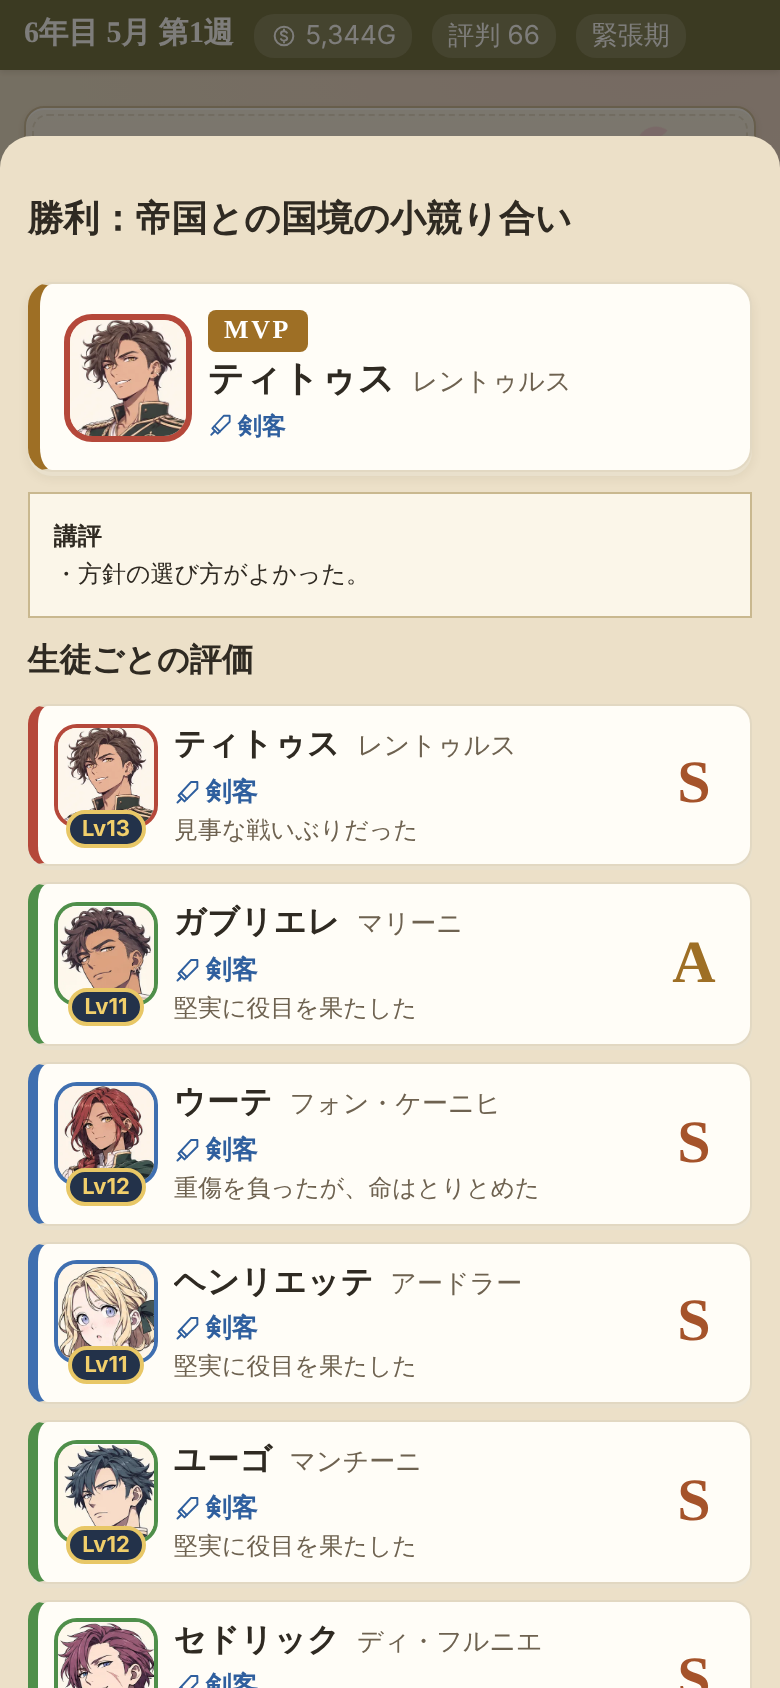
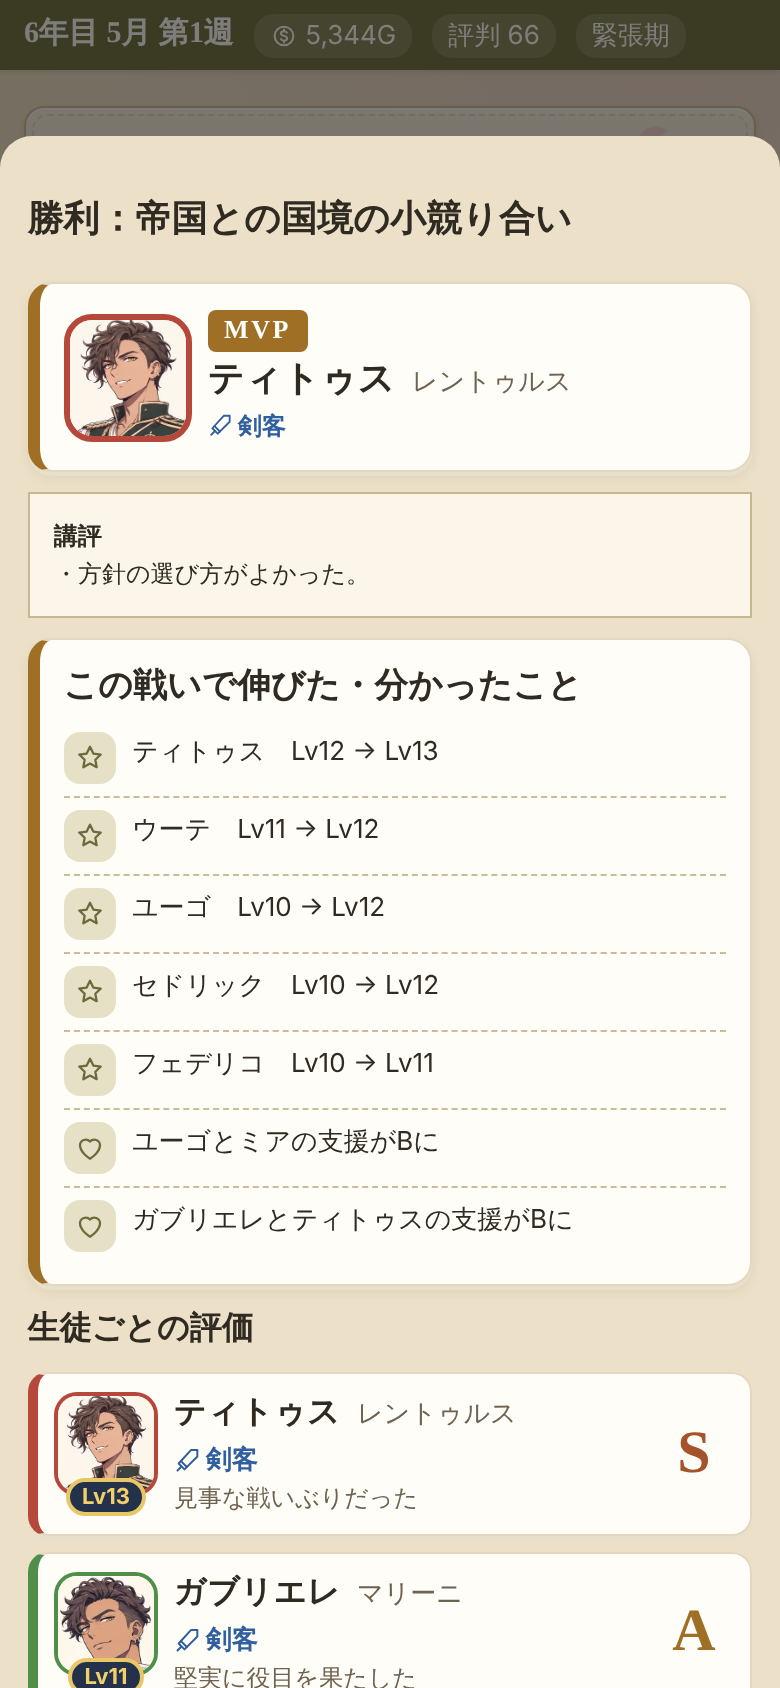
結果の画面に「この戦いで伸びた・分かったこと」、報告書と感想メモの更新、撮影し直し
Claude-Session: https://claude.ai/code/session_01BQhBD7stK2VyPxxU8Chf4d

Changed region(s): [[0.0308, 0.3697, 0.9846, 1.0], [0.8615, 0.5545, 0.9231, 0.5853], [0.5231, 0.5545, 0.5538, 0.5853]]

diff --git a/src/core/flow.ts b/src/core/flow.ts
@@ -3,7 +3,7 @@ import { B } from '../data/balance';
 import { BACKGROUNDS, COUNTRIES, COUNTRY_SHORT, COUNTRY_NAMES, SKILL_NAMES } from '../data/people';
 import { WEAPONS } from '../data/weapons';
 import type { CountryId, SkillId } from './types';
-import type { GameState, Quest, Student, GrowthEntry } from './state';
+import type { GameState, Quest, Student, GrowthEntry, BattleFinding } from './state';
 import { Rng } from './rng';
 import { enrolled, addMoney, addRep, chronicle, notify, enrollCohort, capacity, mail, available } from './game';
 import { resolveWeek, startMonthStudents, changeMotivation, revealTalent, addSkill } from './week';
@@ -19,7 +19,7 @@ import { simulateAlumni, aidMoney, titleOf } from './alumni';
 import { prepareCareers, graduate, type CareerPlan } from './career';
 import { generateStudent } from './student';
 import { rollTeacherCandidates, monthlySalaries, yearlyRaises } from './teachers';
-import { absMonth, MONTH_NAMES } from './util';
+import { absMonth, MONTH_NAMES, rankOf } from './util';
 import { retireCheck, viceOf, cleanVice } from './instructor';
 import { checkEndings, peaceEraYear } from './ending';
 import { TRAITS } from '../data/people';
@@ -202,10 +202,27 @@ export function finishBattle(s: GameState): void {
     reveal: (st, v) => revealTalent(s, st, v),
     motivation: (st, d) => changeMotivation(st, d),
   });
-  s.pending.splice(s.pending.findIndex((p) => p.type === 'talk') >= 0 ? s.pending.findIndex((p) => p.type === 'talk') : s.pending.length, 0, { type: 'battleResult', lines, grades, win, growth, mvp: auto.mvp ?? undefined, review: auto.review, title: b.title });
+  const firstTalk = s.pending.findIndex((p) => p.type === 'talk');
+  const findings = battleFindings(s, growth, lines, s.pending.slice(firstTalk >= 0 ? firstTalk : s.pending.length));
+  s.pending.splice(firstTalk >= 0 ? firstTalk : s.pending.length, 0, { type: 'battleResult', lines, grades, win, growth, mvp: auto.mvp ?? undefined, review: auto.review, title: b.title, findings });
   s.battle = null;
   if (q?.kind === 'schoolDefense' && win) checkEndings(s, r, 'month');
   endMonth(s);
+}
+
+/** 戦闘のあとの「この戦いで伸びた・分かったこと」（レベル・技能ランク・魔法・才能・特徴・支援） */
+export function battleFindings(s: GameState, growth: GrowthEntry[], lines: string[], talks: GameState['pending']): BattleFinding[] {
+  const out: BattleFinding[] = [];
+  for (const g of growth) {
+    const st = s.students[g.id];
+    if (!st) continue;
+    if (g.lv1 > g.lv0) out.push({ id: st.id, icon: 'star', text: `${st.given}　Lv${g.lv0} → Lv${g.lv1}` });
+    for (const k of g.skills) { const r0 = rankOf(k.p0), r1 = rankOf(k.p1); if (r0 !== r1) out.push({ id: st.id, icon: 'lesson', text: `${st.given}　${SKILL_NAMES[k.k]} ${r0} → ${r1}` }); }
+    for (const sp of g.spells) out.push({ id: st.id, icon: 'tome', text: `${st.given}　${WEAPONS[sp]?.name ?? sp}を覚えた` });
+  }
+  for (const l of lines) if (l.includes('才能') || l.includes('特徴')) { const st = Object.values(s.students).find((x) => x.status === 'enrolled' && l.startsWith(`戦場で${x.given}`) || l.startsWith(`${x.given}の特徴`)); out.push({ id: st?.id, icon: 'lantern', text: l }); }
+  for (const p of talks) if (p.type === 'talk') { const a = s.students[p.talk.a], c = s.students[p.talk.b]; if (a && c) out.push({ id: a.id, icon: 'heart', text: `${a.given}と${c.given}の支援が${p.talk.rank}に` }); }
+  return out;
 }
 
 export function killStudent(s: GameState, st: Student, note: string): void {

diff --git a/src/core/state.ts b/src/core/state.ts
@@ -220,7 +220,7 @@ export type EndingKind = 'peace' | 'unify' | 'ceasefire' | 'neutral';
 export type Pending =
   | { type: 'weekSummary'; lines: string[]; talks: TalkLog[]; growth?: GrowthEntry[] }
   | { type: 'questBoard' }
-  | { type: 'battleResult'; lines: string[]; grades: { id: string; grade: string; note: string }[]; win: boolean; growth?: GrowthEntry[]; mvp?: string; review?: string[]; title?: string }
+  | { type: 'battleResult'; lines: string[]; grades: { id: string; grade: string; note: string }[]; win: boolean; growth?: GrowthEntry[]; mvp?: string; review?: string[]; title?: string; findings?: BattleFinding[] }
   | { type: 'event'; title: string; lines: string[] }
   | { type: 'entrance' }
   | { type: 'career' }
@@ -232,6 +232,9 @@ export type Pending =
   | { type: 'successor' }
   | { type: 'scene'; title: string; lines: SceneLine[]; after?: 'ending' }
   | { type: 'ending'; kind: EndingKind; country?: CountryId };
+
+/** 戦闘で伸びた・分かったこと（結果の画面にまとめて出す） */
+export interface BattleFinding { id?: string; icon: string; text: string }
 
 /** 成長の記録（ゲージの演出用）。前と後の値だけを持つ */
 export interface GrowthEntry {

diff --git a/src/ui/Pending.tsx b/src/ui/Pending.tsx
@@ -106,6 +106,12 @@ function BattleResult({ s, p, onDone }: { s: GameState; p: Extract<GameState['pe
   return (
     <Sheet title={`${p.win ? '勝利' : '敗北'}${p.title ? `：${p.title}` : ''}`}>
       <AutoResultHead s={s} mvp={p.mvp} review={p.review} />
+      {p.findings && p.findings.length > 0 && (
+        <div class="pcard" style={{ ['--band' as string]: 'var(--gold)' }}>
+          <h3 style={{ marginTop: 0 }}>この戦いで伸びた・分かったこと</h3>
+          <ul class="list sumlist">{p.findings.map((f) => <li><span class="todoicon"><Icon name={f.icon} size={16} /></span><span>{f.text}</span></li>)}</ul>
+        </div>
+      )}
       <h3>生徒ごとの評価</h3>
       {p.grades.map((g) => { const st = s.students[g.id]; if (!st) return null; return <MiniCard st={st} onClick={() => undefined} sub={g.note} right={<span class={`grade g${g.grade}`}>{g.grade}</span>} />; })}
       <div class="pcard"><ul class="list sumlist">{p.lines.map((l) => <li><span class="todoicon"><Icon name={l.startsWith('勝利') ? 'flag' : l.startsWith('敗北') ? 'skull' : l.includes('報酬') ? 'coin' : lineIcon(l)} size={16} /></span><span>{l}</span></li>)}</ul></div>

diff --git a/tests/night5.test.ts b/tests/night5.test.ts
@@ -74,6 +74,8 @@ describe('自動の戦闘', () => {
       finishBattle(s);
       const p = s.pending.find((x) => x.type === 'battleResult');
       expect(p && p.type === 'battleResult' && p.mvp).toBeTruthy();
+      // この戦いで伸びた・分かったこと：レベルが上がった子は必ず載る
+      if (p && p.type === 'battleResult') for (const g of p.growth ?? []) if (g.lv1 > g.lv0) expect(p.findings?.some((f) => f.id === g.id && f.text.includes(`Lv${g.lv1}`))).toBe(true);
       expect(s.battle).toBeNull();
     }
   });

diff --git a/docs/reports/night5.md b/docs/reports/night5.md
@@ -8,7 +8,7 @@
 |---|---|---|
 | ① 出撃前の画面 | **完成** | 依頼を選ぶと「出撃前」の画面になります。**出撃メンバー**（顔のカード。タップで出し入れ、**「おすすめの編成」ボタン**＝レベル・やる気・疲れ・敵との相性・回復役を考えて選びます）→ **作戦の方針**（依頼の勝利条件ごとに3〜4つ。慎重に／攻めろ／仲間を守れ／速攻で敵将を／救出・護衛を優先／守りを固めろ。合うものには「この依頼に合う」の札）→ **役割**（前衛・後衛・遊撃・回復。兵種から自動で決まり、タップで変えられます。◎向いている・○ふつう・△向かない）。武器と道具は、名前の横の「▾」で変えられます。**敵の情報**：敵将の名前・顔・兵種・レベル・性格（傲慢・老練・卑怯・誇り高い・若い野心家・冷徹）、敵の数と武器の内訳（「剣×2・槍×1…」）、三すくみの見どころ（「斧兵が多い。こちらの武器が有利（斧は剣に弱い）」など）、天候と地形の注意、敵に教え子がいるかどうか。**勝ち目の目安**は「優勢」「五分」「苦しい」の3つだけ（裏で3回試しに戦わせて決めます。数字は見せません） |
 | ② 自動の戦闘の計算 | **完成** | **今の戦闘の計算（命中・ダメージ・追撃・必殺・スキル・三すくみ・支援・地形・天候）をそのまま裏で手早く回す形**にしました。マスの上で敵も味方も今までどおりに動いており、その記録から場面と出来事を拾います。なので、能力・兵種・技能ランク・覚えた魔法・支援がそのまま効きます。さらに自動の戦闘では、**作戦の方針**（命中・回避・ダメージ・守備の補正、弱った子を下げるかどうか、敵将を狙うか、重傷で済みやすいか）・**方針と依頼の合い方**・**役割と兵種の合い方**・**やる気**（1段階ごとに命中・回避±2）・**疲れ**（60以上で命中・回避−6）も効きます。戦死と重傷の決まり方、経験値・技能・支援の上がり方、報酬・評判・友好度・戦況への影響は今の実戦・演習と同じです（演習は死にません）。教え子が戦死しそうになったときは、今までのオートプレイと同じく「教官が戦況を読み直す」（巻き戻し。1戦闘3回まで、画面には出しません）が働きます |
-| ③ 戦闘の見せ方 | **完成** | **開戦 → ぶつかり合い → 山場 → 決着** の3〜4場面を、1行ずつタップで送ります（各場面5行まで）。上に**両軍の勢いのゲージ**（味方＝青、敵＝赤）、場面ごとに関わった子の顔と、HPが半分を切った子には「傷」、倒れた子には「✕」の印。**ここぞの判断（1戦闘に1〜2回）**：「囲まれた○○を助けに行く／作戦を優先する／○○に『下がれ』と指示する」「押し切る／撤退する／○○に『狙え』『もう一度動け』と指示する」「敵将の一騎打ちを○○が受ける（2人から選ぶ・勝ち目つき）／断る」「敵の中の教え子を説得する／戦う」「伏兵の気配：回り道／正面突破／『狙え』」。**教官の指示（もう一度動け・狙え・下がれ）は判断の中に入れ**、信頼が高いほど届きやすい（何%か書いてあります）。選んだ結果で勝敗・けが・支援・信頼・やる気が変わります。**結果**：勝敗、**MVP**（大きな顔のカード）、**講評**（方針が合っていたか・役割・武器の相性・支え合い・疲れ・やる気）、生徒ごとの評価、けが人・戦死、経験値・レベルアップ・技能・魔法の演出（2夜目のものをそのまま）。**「早送り」**（自動でめくる。判断のところで止まります）と**「結果だけ見る」**（残りの判断はおすすめを選んで結果へ）。1戦闘は、ふつうに読んで1〜2分ほどです |
+| ③ 戦闘の見せ方 | **完成** | **開戦 → ぶつかり合い → 山場 → 決着** の3〜4場面を、1行ずつタップで送ります（各場面5行まで）。上に**両軍の勢いのゲージ**（味方＝青、敵＝赤）、場面ごとに関わった子の顔と、HPが半分を切った子には「傷」、倒れた子には「✕」の印。**ここぞの判断（1戦闘に1〜2回）**：「囲まれた○○を助けに行く／作戦を優先する／○○に『下がれ』と指示する」「押し切る／撤退する／○○に『狙え』『もう一度動け』と指示する」「敵将の一騎打ちを○○が受ける（2人から選ぶ・勝ち目つき）／断る」「敵の中の教え子を説得する／戦う」「伏兵の気配：回り道／正面突破／『狙え』」。**教官の指示（もう一度動け・狙え・下がれ）は判断の中に入れ**、信頼が高いほど届きやすい（何%か書いてあります）。選んだ結果で勝敗・けが・支援・信頼・やる気が変わります。**結果**：勝敗、**MVP**（大きな顔のカード）、**「この戦いで伸びた・分かったこと」**（レベル・技能ランク・覚えた魔法・目覚めた才能・分かった特徴・支援のランクを1枚にまとめて。作業中に感想メモへ足された項目です）、**講評**（方針が合っていたか・役割・武器の相性・支え合い・疲れ・やる気）、生徒ごとの評価、けが人・戦死、経験値・レベルアップ・技能・魔法の演出（2夜目のものをそのまま）。**「早送り」**（自動でめくる。判断のところで止まります）と**「結果だけ見る」**（残りの判断はおすすめを選んで結果へ）。1戦闘は、ふつうに読んで1〜2分ほどです |
 | ④ 単調にしない工夫 | **完成** | 場面の文は**依頼の種類（12種：演習・演武会・盗賊・魔物・護衛・国境・防衛・避難民・救出・突破・砦・学校防衛）×マップの型（10種：訓練場・森・村・砦・橋・丘・廃墟・古城・牢・学校）×天候（3種）**で変わります。**生徒の個性の出来事を15種**（それぞれ出る条件と効果つき）：負けず嫌いの踏ん張り（HP半分以下で攻撃が上がる）・臆病な子の一歩（やる気+1）・本番に強い（隠れた特徴が分かる）・伸び盛り（早熟・遅咲きが分かる）・**隠れた才能の目覚め（判明度+40）**・二人の連携（支援B以上・支援が深まる）・**恋人どうしがかばう**（傷が回復）・ライバルの張り合い・初陣（経験値+）・卒業前の最後の戦い（信頼+）・誕生日の戦い・けがからの復帰・覚えたばかりの魔法・兵種が変わったばかり・支える手（回復役）。どれも**10性格の口調**でセリフがあります。**敵将に名前・顔・性格・口上**（性格7種×開戦・再会・追いつめられた・逃げる・倒れる・一騎打ちの申し込みの口上）。**逃した敵将は「因縁の敵将」になり、また戦場に現れます**（同じ国・同じ種類の依頼で35%、会うたびに強くなる）。年鑑の「記録」に、会った日と結果が残ります。戦場で会う卒業生（援軍・敵の教え子）は今の仕組みをそのまま使い、場面の文と「説得」の判断につなぎました。**直近に使った文60件・出来事14件は出にくく**、さらに戦闘ごとに少しずつ選ばれ方が変わります。**同じ依頼を同じ編成で20回戦わせても、場面の文の並びは20回とも別**（テストで確かめています） |
 | ⑤ 手動の戦闘を残す | **完成** | 設定に「**戦闘を自分で指揮する**」（はじめはオフ）。オンなら今までの出撃準備と戦闘の画面です。オフのときも、出撃前の画面の下の「**この戦いは自分で指揮する**」にチェックすると、その戦いだけ手で動かせます。**学校防衛戦・公開演武会も自動の戦闘に対応**。演武会は、場面で目立った子ほど演武会の点が上がり、上位の子に三国から声がかかります（今の仕組み） |
 | ⑥ 仕上げ | **完成** | 長期シミュレーション・オートプレイ・テスト用の「1ヶ月進める」は自動の戦闘を使います。**40年×10回×方針4つ**を回し、`docs/sim-report.md` を更新しました（下に要点）。主要な画面（依頼掲示板・出撃前・場面・判断・結果・設定・因縁の敵将）を**幅390×高さ844で撮影**（`docs/screenshots/night5/`、17枚）。**横にはみ出した画面は0、画面のエラーも0**でした |
@@ -43,6 +43,8 @@
 - **敵将の顔**は似顔絵（パーツの組み合わせ）です。生徒の顔画像は「学校の制服」なので、敵には使っていません。
 - 在学中の戦死は、4夜目より少し少なめです（下の「長期シミュレーション」）。
 - 戦闘中の判断の結果は「指示」という短い場面で見せていますが、一騎打ちの打ち合いを一手ずつは見せていません（結果だけ）。
+
+- **作業中に感想メモに足された項目のうち、今回やったのは「この戦いで伸びた・分かったこと」だけ**です（5夜目の結果画面に入れてよい、とあったため）。「手応えを広げる」「発見を広げる」「名簿の一覧を手帳の見た目に」「授業の疲労 8→7」は、次の夜の指示書を待つ形にしました（疲労の数字を変えると、今回のシミュレーションとくらべられなくなるため）。
 
 ## 判断したこと（指示書にない・曖昧だったところで決めたこと）
 

diff --git a/docs/feedback.md b/docs/feedback.md
@@ -116,7 +116,7 @@
   - → 迷ったときは「手応え」と「発見」を強くする方を選ぶ。戦闘を自動にして育成に全振りする判断もこれに沿っている
 - [ ] **手応えを広げる**：教官の腕前が上がるとき、卒業生が昇進・兵種昇格したとき（新聞・手紙から個人ページを開いたとき）、施設を直したとき、評判が上がったときにも、ゲージが伸びる・「ランクアップ！」などの演出を入れる（長くなりすぎないよう、タップで早送り）
 - [ ] **発見を広げる**：隠れた才能が判明する瞬間を特別な演出に（ヒント1→ヒント2→判明で段階的に、判明時は似顔絵＋才能の名前を大きく）。性格や夢の「意外な一面」が会話や面談で見えるようにする（例：臆病な子の意外な特技、夢が変わるきっかけ）。個人ページで、まだ見えていない項目が「？」として残り、埋まっていくのが分かるように
-- [ ] 自動の戦闘でも、戦闘後に「この戦いで伸びた・分かったこと」をまとめて見せる（5夜目の結果画面に入れてよい）
+- [x] ✅（5夜目）自動の戦闘でも、戦闘後に「この戦いで伸びた・分かったこと」をまとめて見せる（5夜目の結果画面に入れてよい）
 
 ### 名簿（ヒナタさんが書いた指示書・講座の練習問題から）
 - 目的：名簿が分かりづらく淡白なので、見たくなるワクワクする見た目にして、遊ぶ満足感を上げたい（3夜目で見本どおりのカードと「簡易」の切り替えは実装済み。以下は足りない点）
